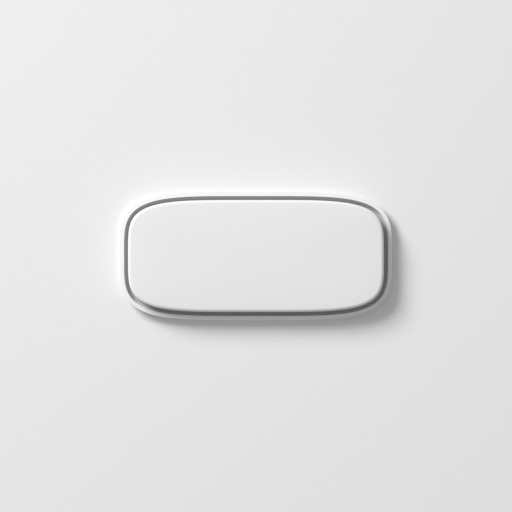
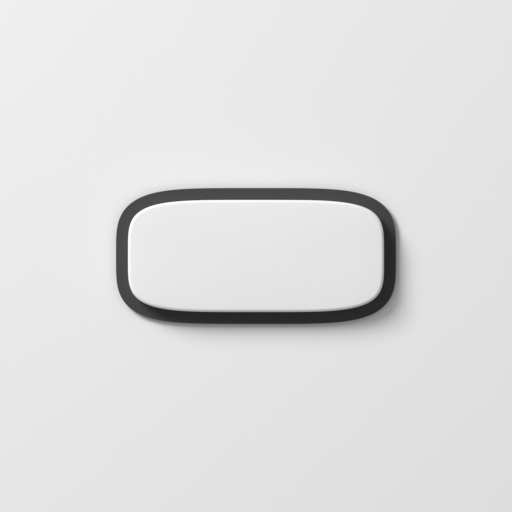
fix(ambient3d): line the button referent's well so it matches the CSS model
styles.css describes what the button is meant to be: "the button element
IS the well ... whose lume interior shows as the gap ring around the cap".
The referent did not build that. It used base_style="flush" — a plain
clearance hole in plate material — so the gap ring rendered light where
the CSS paints it dark, and the two sides described different physical
objects.

build_button now takes `well_material` to line the pocket, the way
build_switch already lines its recess floor, and the button referents
seat their caps in a lined well with a 2mm gap ring at 1.2mm seat depth —
matching the CSS button's --ambx-grid-half padding and thickness 0.27.

Measured against an identical CSS screenshot at the referent's own
framing, silhouette IoU goes 0.532 -> 0.775. Pixel mean |diff| ticks up
0.040 -> 0.049, which is what you get when two high-contrast dark edges
are slightly misregistered instead of one low-contrast light one; the
images agree with IoU, not with the pixel mean.

Only the three button renders change; every other referent re-renders
byte-identical. measure/compare.py still passes 0/174.

Claude-Session: https://claude.ai/code/session_01EyLWG52W9uYQho56ryJPAC

Changed region(s): [[0.2188, 0.3438, 0.7812, 0.6562]]

diff --git a/ambient3d/components/button.py b/ambient3d/components/button.py
@@ -4,7 +4,8 @@
 rounded-square OP-1 style key. `base_style` "flush" seats the cap in a
 plain clearance hole (OP-1/EP-133 panels); "well" is the TP-7-style
 machined pocket — the cap sits in a countersunk recess with a shadow-gap
-ring, barely proud of the tile.
+ring, barely proud of the tile. Pass `well_material` to line the pocket,
+which is what makes the ring read as a gap rather than as bare tile.
 
 `tile_shape` "rect" gives a sharp-cornered rectangular tile so buttons can
 butt side by side into a panel (tile size, thickness, and material are
@@ -43,6 +44,7 @@ def build_button(
     seat=1.2,             # how deep the flush cap sits into the tile
     well_gap=0.6,         # shadow-gap ring width around a well cap
     well_depth=1.3,       # pocket depth
+    well_material=None,   # pocket liner; None leaves the pocket bare tile
     label=None,           # printed text, or "@play"/"@stop"/"@rec"/...
     label_size=None,      # glyph height / font size in mm; auto if None
     value=0.0,            # 0..1 press state
@@ -89,13 +91,25 @@ def build_button(
                          material=base_material, location=location)
 
     if base_style == "well":
+        pocket_profile = offset_profile(cap_profile, -well_gap)
         pocket = prism_object(
-            name + "_Pocket",
-            offset_profile(cap_profile, -well_gap),
+            name + "_Pocket", pocket_profile,
             base_h - well_depth, base_h + 1.0,
         )
         boolean_cut(tile, pocket)
         cap_rest = base_h - well_depth
+        if well_material is not None:
+            # Liner filling the pocket floor, so the shadow-gap ring around
+            # the cap reads as the well's own material rather than as bare
+            # tile — the same trick build_switch uses for its recess floor.
+            # Grown past the pocket wall so it is buried in the tile at the
+            # rim and can never show a seam.
+            liner = prism_object(
+                name + "_Well", offset_profile(pocket_profile, -1.0),
+                0.05, base_h - well_depth + 0.02, material=well_material,
+            )
+            liner.parent = tile
+            liner.location = (0, 0, 0)
     else:
         hole = prism_object(
             name + "_Hole",